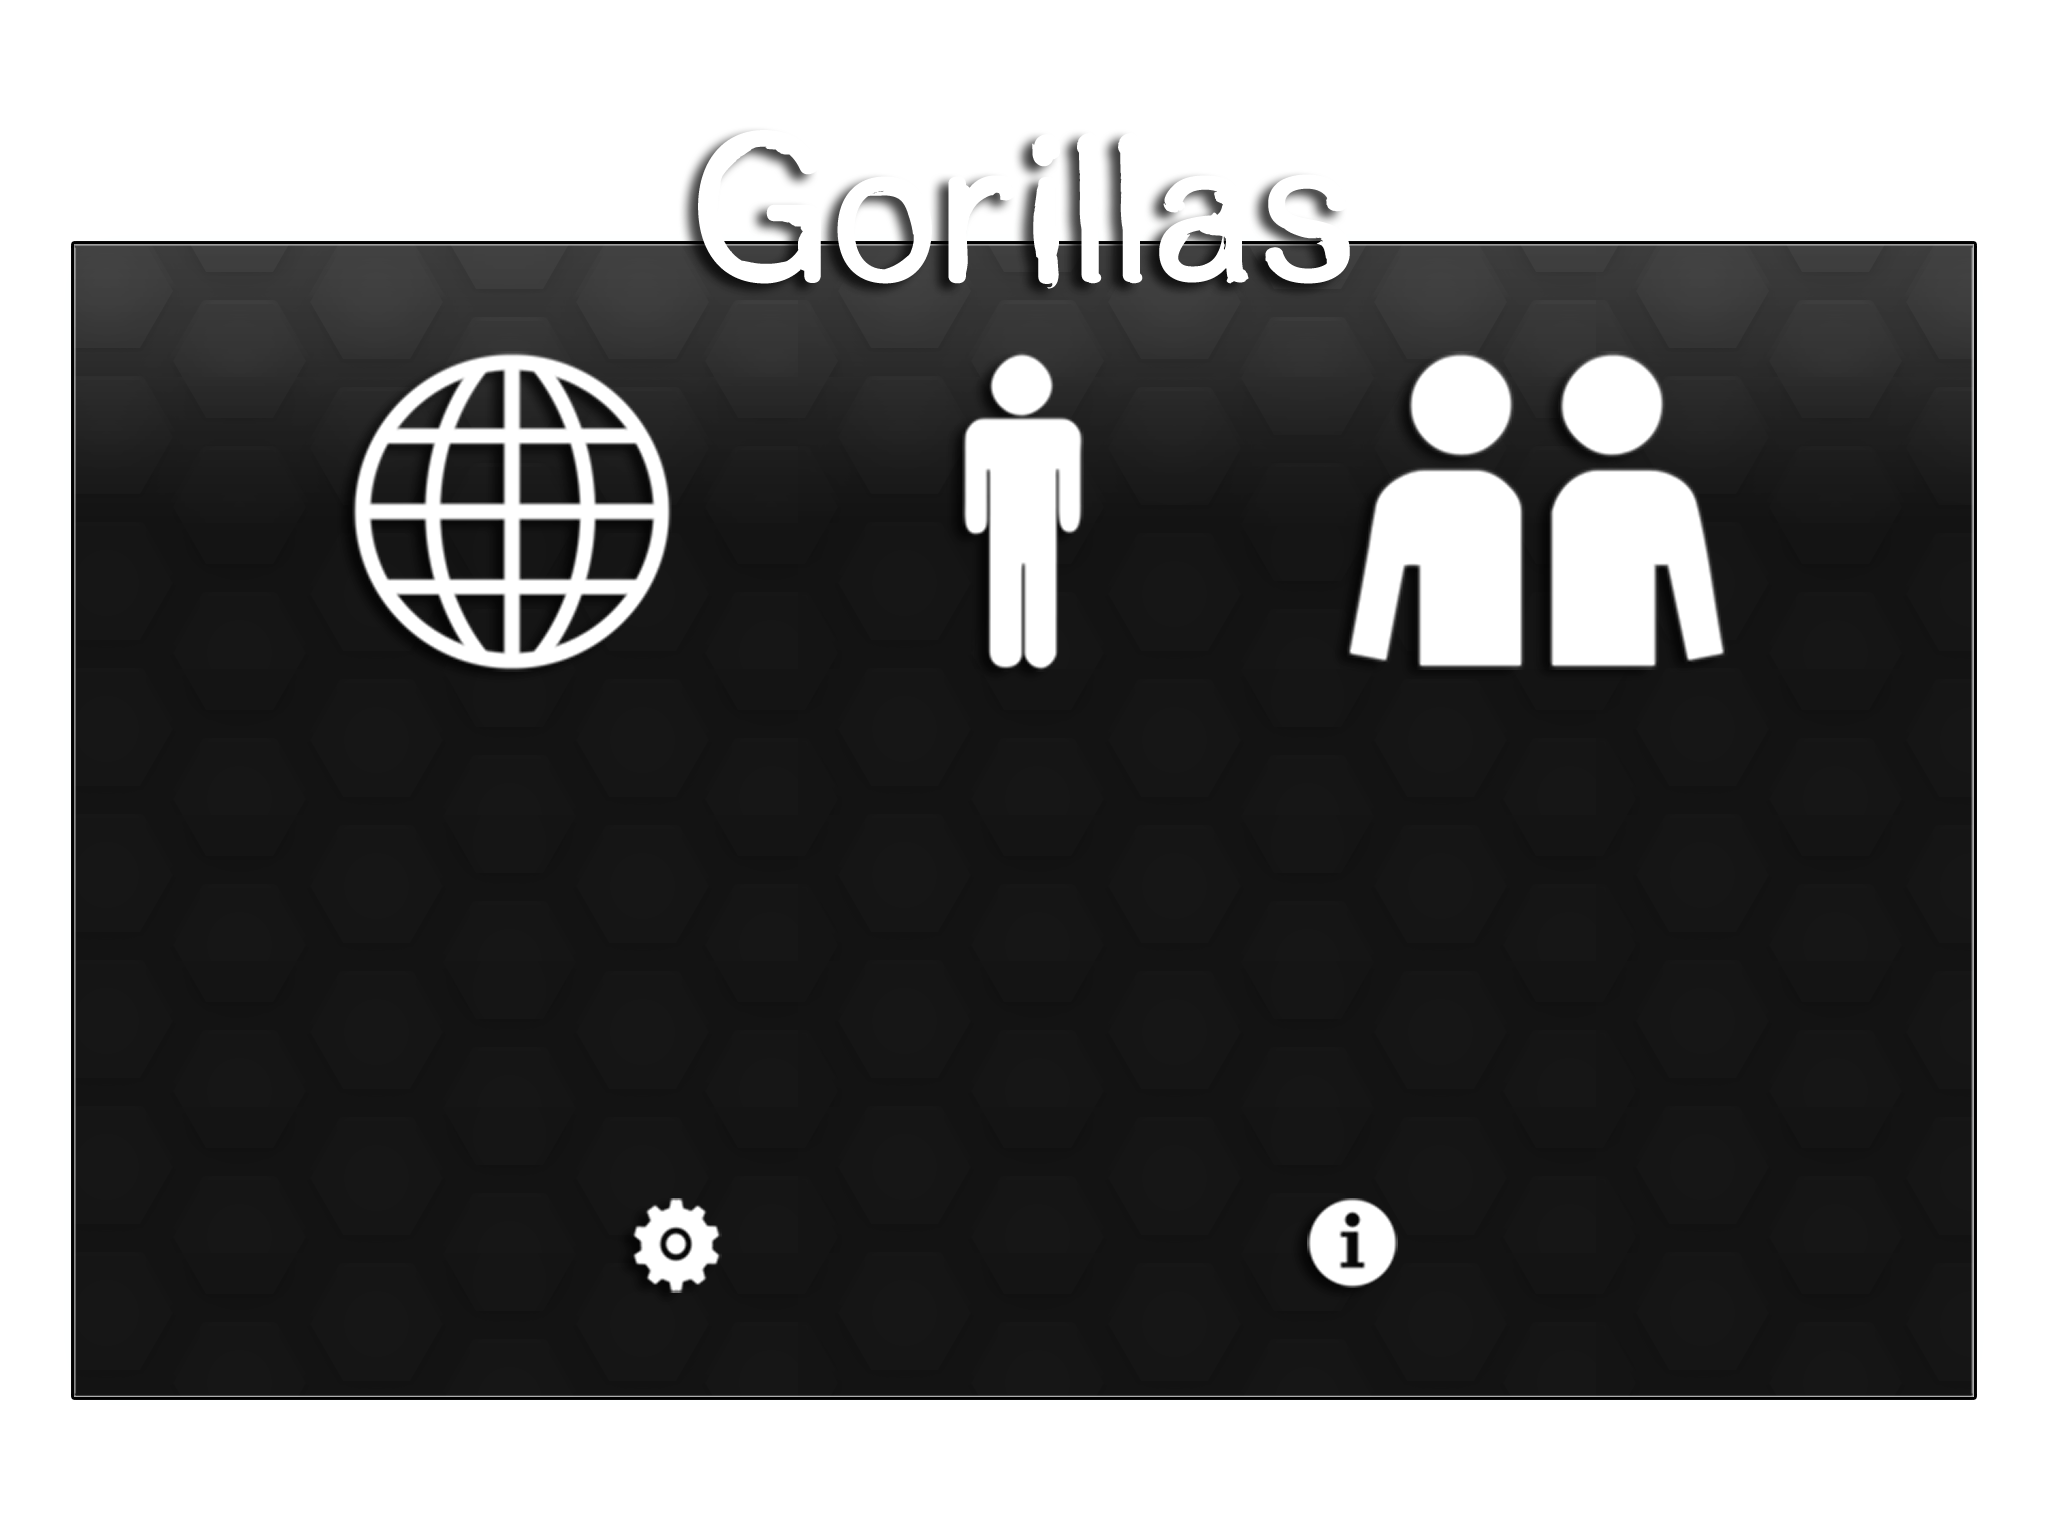
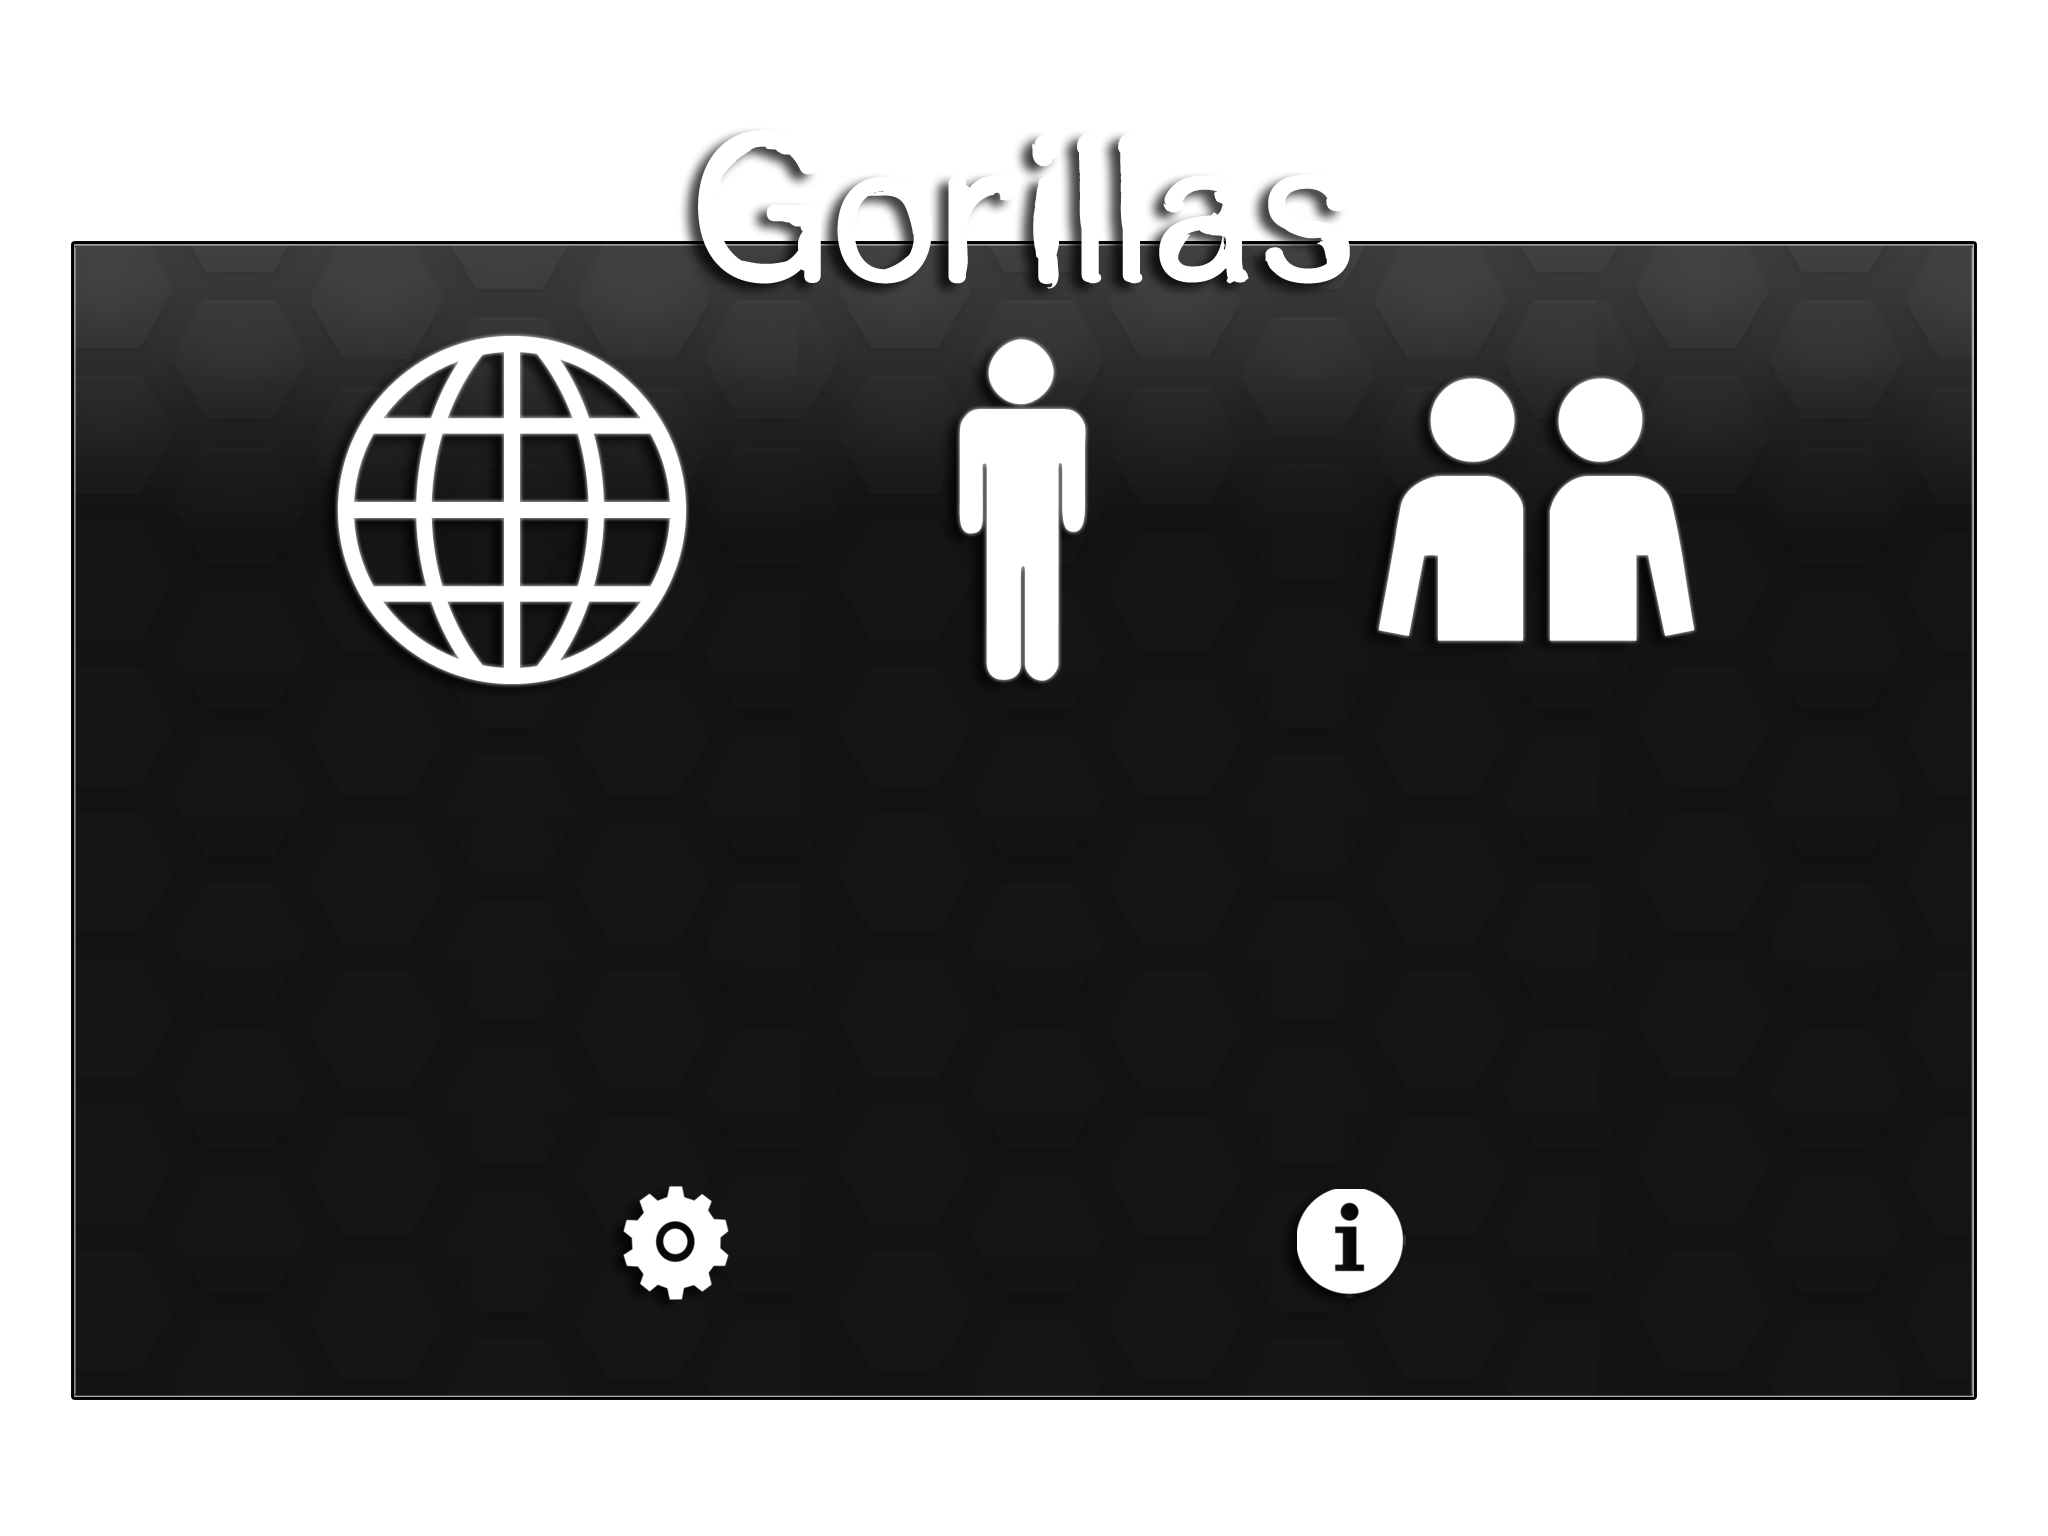
More iPad HD resolution artwork and artwork reworks.

diff --git a/Gorillas/GorillasAppDelegate.m b/Gorillas/GorillasAppDelegate.m
@@ -71,7 +71,7 @@
 
 - (void)preSetup {
     
-#if ! DEBUG || 1
+#if ! DEBUG
     dispatch_async(dispatch_get_global_queue(DISPATCH_QUEUE_PRIORITY_BACKGROUND, 0), ^{
         @try {
             NSString *token = [self testFlightToken];
